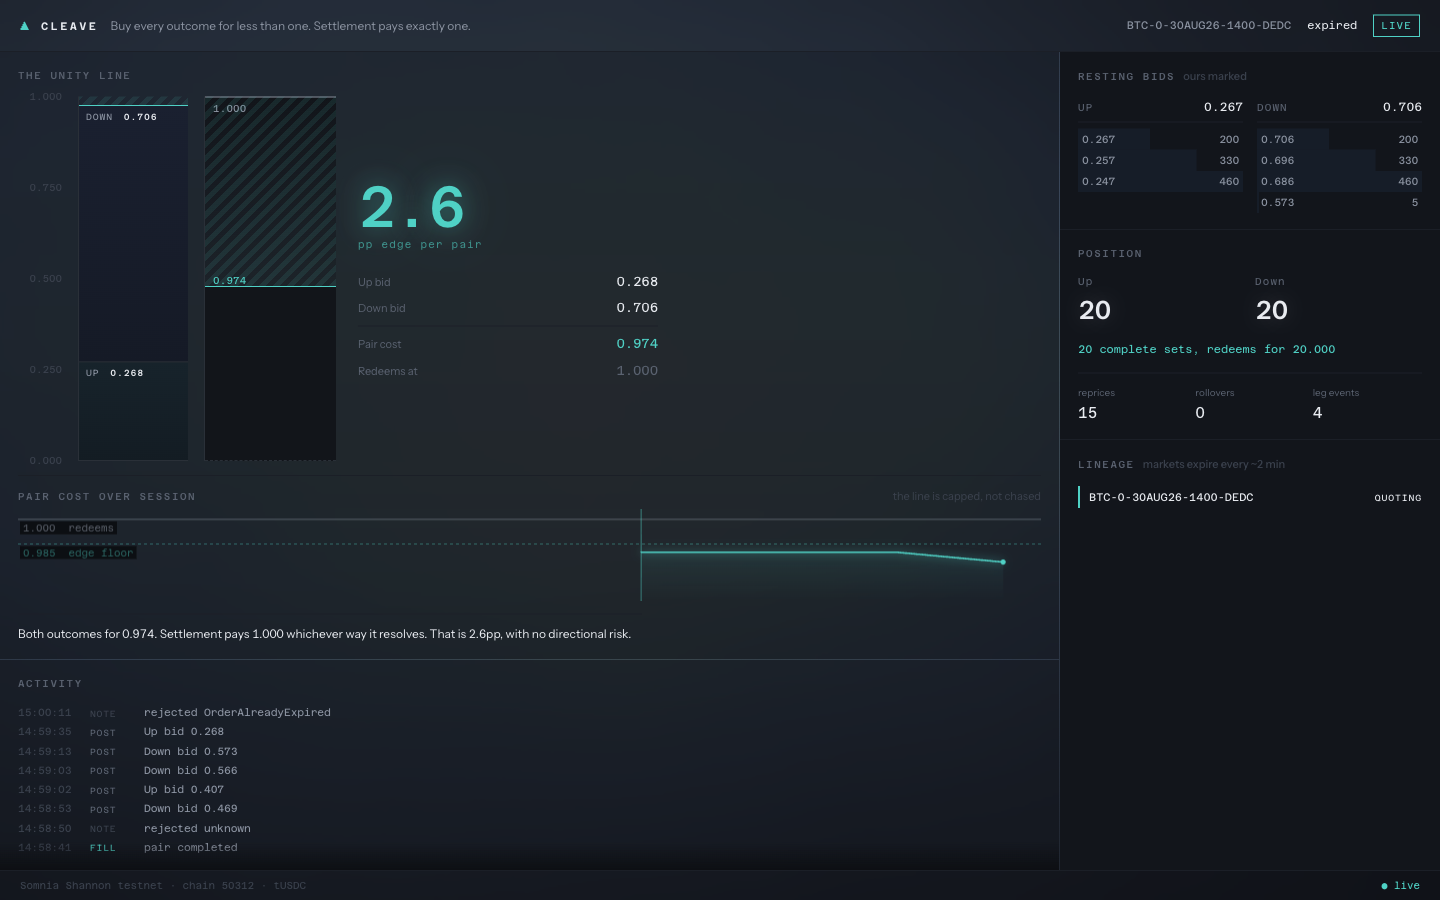
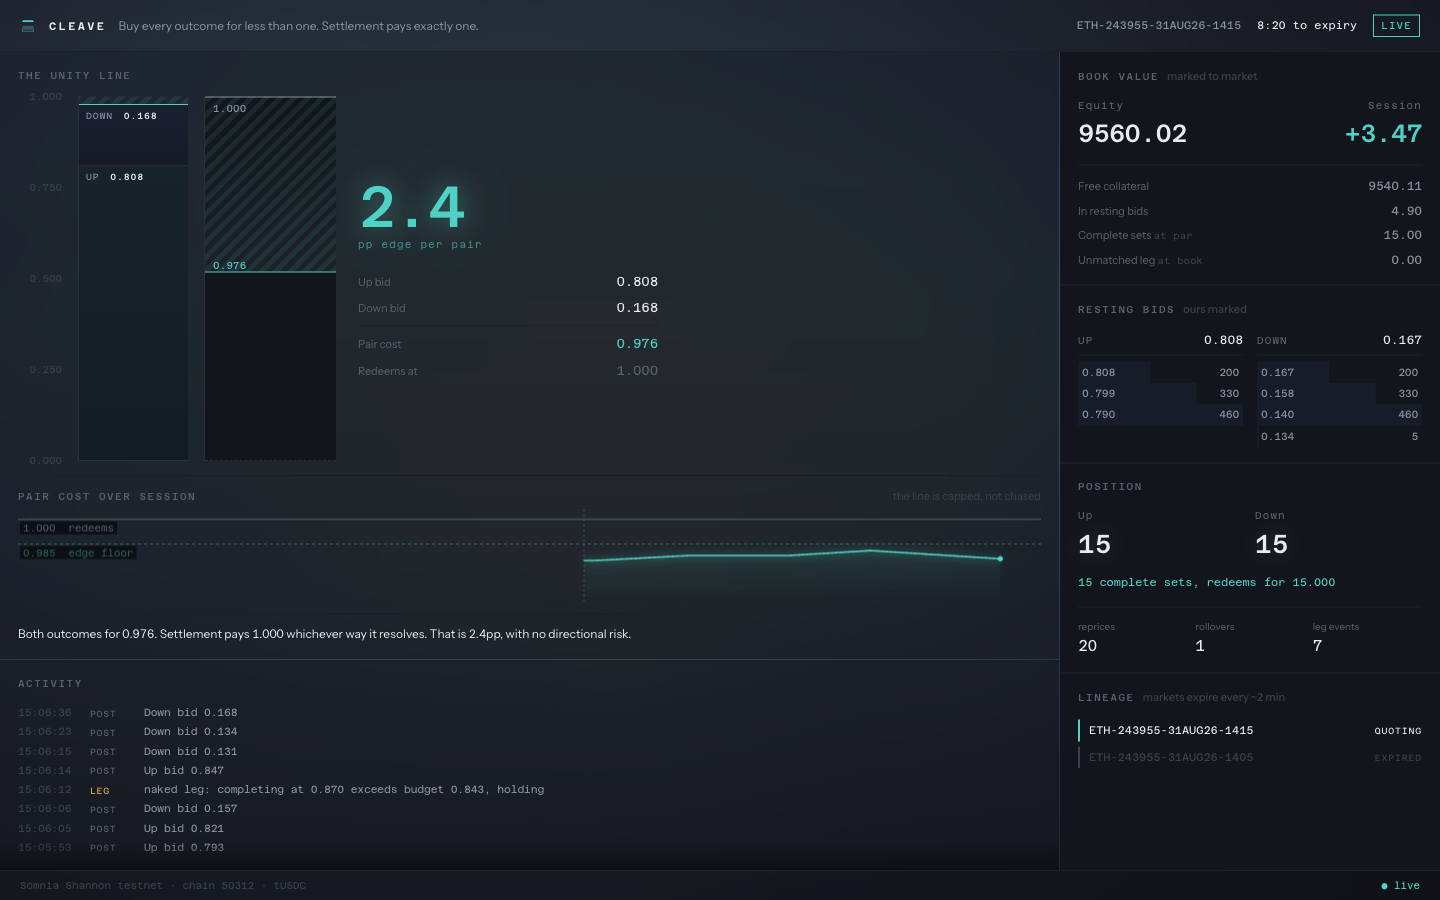
Book value panel; fix a null that blanked the interface and a lying vernier
Adds the number a judge asks for first. Equity marked to market with the
derivation shown: free collateral, collateral locked in resting bids, complete
sets at par, unmatched leg at book. Sets are marked at par because they redeem
at exactly 1.000 regardless of outcome, so marking them at the book would imply
risk that does not exist. Wallet balance alone is wrong because resting bids
move collateral out of the wallet.

Fixes two real bugs. A single missing element threw inside renderUnity and
killed every subsequent panel, leaving a half-drawn page that still looked
plausible - rendering is now fault-isolated per panel. And the vernier clamped
values outside its 0.950 window, printing a real number on top of a gradation
reading something else; it now declares itself off scale instead. Filming caught
that case at a pair cost of 0.684 nineteen seconds from expiry.

diff --git a/web/style.css b/web/style.css
@@ -97,7 +97,7 @@ body {
 }
 .stale-dot{width:6px;height:6px;border-radius:50%;background:var(--naked);flex:none;animation:pulseDot 1.6s ease-in-out infinite}
 @keyframes pulseDot{0%,100%{opacity:1}50%{opacity:.25}}
-body.stale .edge-num,body.stale .pos-v,body.stale .readout dd,body.stale .levels li,
+body.stale .edge-num,body.stale .pos-v,body.stale .pnl-v,body.stale .readout dd,body.stale .levels li,
 body.stale .trace,body.stale .seg-label b,body.stale .book-head .num{
   opacity:.42;filter:saturate(.35);
 }
@@ -122,7 +122,7 @@ main {
   grid-template-areas: "unity rail" "events rail";
   height: calc(100vh - 52px - 30px);
 }
-.rail { grid-area: rail; display: grid; grid-template-rows: auto auto 1fr; gap: 1px;
+.rail { grid-area: rail; display: grid; grid-template-rows: auto auto auto 1fr; gap: 1px;
         background: var(--hair); padding: 0; }
 .rail > section { padding: 16px 18px; }
 section { background: color-mix(in srgb, var(--panel) 62%, transparent); backdrop-filter: blur(7px) saturate(115%); padding: 16px 18px; min-width: 0; overflow: hidden; }
@@ -206,6 +206,18 @@ section { background: color-mix(in srgb, var(--panel) 62%, transparent); backdro
   border-bottom: 0; transition: height .5s cubic-bezier(.2,.7,.2,1);
 }
 
+/* A fixed scale that silently clamps is a lying instrument. When the pair
+   falls outside the window the vernier says so, rather than pinning a value
+   on top of a gradation that reads something else. */
+.v-off {
+  position: absolute; left: 0; right: 0; bottom: 8px; text-align: center;
+  font-family: var(--mono); font-size: 10px; letter-spacing: .12em;
+  color: var(--naked); text-transform: uppercase; line-height: 1.7;
+}
+.v-off span { letter-spacing: -.02em; font-size: 12px; text-transform: none; }
+.v-track.off .v-pair span { display: none; }
+.v-track.off .v-floor span { opacity: .3; }
+
 .v-read { align-self: center; display: flex; flex-direction: column; gap: 2px; min-width: 0; width: 100%; }
 .edge-num {
   font-family: var(--mono); font-size: clamp(34px, 4.4vw, 58px); font-weight: 500;
@@ -261,6 +273,25 @@ section { background: color-mix(in srgb, var(--panel) 62%, transparent); backdro
 }
 .levels li.mine::before { background: var(--under); opacity: .16; }
 .levels .empty { color: var(--rolled); justify-content: flex-start; }
+
+/* ── Book value ─────────────────────────────────────────────────────
+   The question a judge asks first. Complete sets are marked at par because
+   they redeem at exactly 1.000 whatever happens; only the unmatched leg is
+   marked at the book, because only it carries price risk.
+   ----------------------------------------------------------------- */
+.pnl-top { display: grid; grid-template-columns: 1fr auto; gap: 14px; align-items: end; }
+.pnl-top > div { display: flex; flex-direction: column; gap: 2px; }
+.pnl-net { text-align: right; }
+.pnl-k { font-family: var(--mono); font-size: 10px; letter-spacing: .12em; color: var(--ink-mute); }
+.pnl-v { font-size: 25px; font-weight: 500; letter-spacing: -.03em; }
+#pNet[data-sign="up"]   { color: var(--under); }
+#pNet[data-sign="down"] { color: var(--over); }
+#pNet[data-sign="flat"] { color: var(--ink-mute); }
+.pnl-rows { display: grid; gap: 7px; margin: 14px 0 0; padding-top: 12px; border-top: 1px solid var(--hair); }
+.pnl-rows div { display: flex; justify-content: space-between; align-items: baseline; gap: 10px; }
+.pnl-rows dt { font-size: 11px; color: var(--ink-mute); }
+.pnl-rows dt b { font-weight: 400; color: var(--rolled); font-family: var(--mono); font-size: 9.5px; letter-spacing: .04em; }
+.pnl-rows dd { margin: 0; font-size: 12px; color: var(--ink-dim); }
 
 /* ── Position ───────────────────────────────────────────────────────── */
 .pos-grid { display: grid; grid-template-columns: 1fr 1fr; gap: 10px; }
@@ -382,7 +413,19 @@ section { background: color-mix(in srgb, var(--panel) 62%, transparent); backdro
   .v-rule span, .v-floor span { left: 4px; font-size: 9px; }
   .seg-label { font-size: 8px; letter-spacing: .06em; }
   .seg-label b { display: block; margin: 1px 0 0; }
-  .v-read { align-self: center; }
+  /* A fixed scale that silently clamps is a lying instrument. When the pair
+   falls outside the window the vernier says so, rather than pinning a value
+   on top of a gradation that reads something else. */
+.v-off {
+  position: absolute; left: 0; right: 0; bottom: 8px; text-align: center;
+  font-family: var(--mono); font-size: 10px; letter-spacing: .12em;
+  color: var(--naked); text-transform: uppercase; line-height: 1.7;
+}
+.v-off span { letter-spacing: -.02em; font-size: 12px; text-transform: none; }
+.v-track.off .v-pair span { display: none; }
+.v-track.off .v-floor span { opacity: .3; }
+
+.v-read { align-self: center; }
   .edge-num { font-size: 42px; }
   .readout { margin-top: 12px; }
   .trace { height: 76px; }

diff --git a/web/app.js b/web/app.js
@@ -74,13 +74,24 @@ function renderUnity(s) {
   $("pUp").textContent = f3(up);
   $("pDown").textContent = f3(down);
 
-  // Vernier: same quantity, expanded. Clamped so a pair below the window
-  // floor pins to the bottom rather than escaping the track.
-  const frac = pair === undefined ? 0 : Math.min(1, Math.max(0, (1 - pair) / (1 - V_FLOOR)));
+  // Vernier: same quantity, expanded twentyfold over 0.950 to 1.000.
+  // Near expiry the pair can fall far outside that window. A fixed scale that
+  // silently clamps would print the real value on top of a gradation reading
+  // something else, so instead it goes OFF SCALE, which is what an instrument
+  // with a fixed range actually does.
+  const raw = pair === undefined ? 0 : (1 - pair) / (1 - V_FLOOR);
+  const frac = Math.min(1, Math.max(0, raw));
+  const offScale = pair !== undefined && raw > 1;
   $("vPair").style.top = `${(frac * 100).toFixed(2)}%`;
   $("vGap").style.height = `${(frac * 100).toFixed(2)}%`;
   $("vPaid").style.top = `${(frac * 100).toFixed(2)}%`;
   $("vPairVal").textContent = f3(pair);
+  document.querySelector(".v-track")?.classList.toggle("off", offScale);
+  const off = $("vOff");
+  if (off) {
+    off.hidden = !offScale;
+    if (offScale) $("vOffVal").textContent = `pair ${f3(pair)}`;
+  }
 
   $("rUp").textContent = f3(up);
   $("rDown").textContent = f3(down);
@@ -139,6 +150,23 @@ function renderBook(elId, topId, levels, mine) {
     const q = document.createElement("span"); q.textContent = size;
     li.append(p, q); ol.append(li);
   }
+}
+
+const f2 = (n) => (n === undefined || n === null ? "—" : n.toFixed(2));
+
+function renderPnl(s) {
+  const p = s.pnl;
+  if (!p) return;
+  $("pEquity").textContent = f2(p.equity);
+  $("pWallet").textContent = f2(p.wallet);
+  $("pLocked").textContent = f2(p.locked);
+  $("pPaired").textContent = f2(p.paired);
+  $("pNaked").textContent = f2(p.naked);
+  const n = p.net ?? 0;
+  const el = $("pNet");
+  // A tenth of a tUSDC is noise on a book this size; do not colour it.
+  el.dataset.sign = Math.abs(n) < 0.1 ? "flat" : n > 0 ? "up" : "down";
+  el.textContent = `${n >= 0 ? "+" : ""}${f2(n)}`;
 }
 
 function renderPosition(s) {
@@ -205,17 +233,32 @@ function tickCountdown() {
     : `${m}:${String(sec).padStart(2, "0")} to expiry`;
 }
 
+// Each panel renders inside its own boundary. A null element or a malformed
+// frame should blank ONE panel, not the whole interface: a single missing node
+// previously threw inside renderUnity and killed every subsequent call, leaving
+// a half-drawn page that still looked plausible.
+function guard(name, fn) {
+  try { fn(); }
+  catch (err) {
+    if (!guard.seen) guard.seen = new Set();
+    if (!guard.seen.has(name)) { guard.seen.add(name); console.error(`[cleave] ${name} failed:`, err); }
+  }
+}
+
 function render(s) {
   latest = s;
-  driveEffects(s);
-  renderChrome(s);
-  renderUnity(s);
-  renderBook("bUp", "bUpTop", s.book.upDepth, s.quote.up);
-  renderBook("bDown", "bDownTop", s.book.downDepth, s.quote.down);
-  renderPosition(s);
-  renderLineage(s);
-  renderEvents(s);
-  tickCountdown();
+  guard("effects", () => driveEffects(s));
+  guard("chrome", () => renderChrome(s));
+  guard("unity", () => renderUnity(s));
+  guard("books", () => {
+    renderBook("bUp", "bUpTop", s.book.upDepth, s.quote.up);
+    renderBook("bDown", "bDownTop", s.book.downDepth, s.quote.down);
+  });
+  guard("pnl", () => renderPnl(s));
+  guard("position", () => renderPosition(s));
+  guard("lineage", () => renderLineage(s));
+  guard("events", () => renderEvents(s));
+  guard("countdown", () => tickCountdown());
 }
 
 document.body.classList.add("boot");

diff --git a/src/engine.ts b/src/engine.ts
@@ -6,7 +6,7 @@
  * onto the one that trades.
  */
 import { SomniaMarkets, isBinaryMarket, erc6909Abi, type UnifiedOrder } from "@somnia-chain/markets-sdk";
-import { createPublicClient, http, type PublicClient } from "viem";
+import { createPublicClient, http, erc20Abi, type PublicClient } from "viem";
 import { privateKeyToAccount } from "viem/accounts";
 import { loadConfig } from "./config.js";
 
@@ -25,6 +25,17 @@ export interface EngineState {
   book: { upBid?: number; upAsk?: number; downBid?: number; downAsk?: number; upDepth: Level[]; downDepth: Level[] };
   quote: { up?: number; down?: number; pair?: number; edge?: number; capped: boolean };
   position: { up: number; down: number };
+  /** Mark-to-market equity, in tUSDC. Resting bids move collateral out of the
+   *  wallet, so wallet balance alone badly understates it. */
+  pnl: {
+    startEquity?: number;   // equity at the first tick of this session
+    wallet: number;         // free collateral
+    locked: number;         // collateral committed to resting bids
+    paired: number;         // complete sets, which redeem at exactly 1.000
+    naked: number;          // unmatched legs, marked at the live book
+    equity: number;
+    net: number;            // equity - startEquity
+  };
   stats: { reprices: number; rolls: number; legEvents: number; ticks: number };
   lineage: { symbol: string; expiry: number; state: "active" | "rolled" }[];
   events: EngineEvent[];
@@ -40,6 +51,7 @@ export function emptyState(): EngineState {
   return {
     live: false, book: { upDepth: [], downDepth: [] }, quote: { capped: false },
     position: { up: 0, down: 0 },
+    pnl: { wallet: 0, locked: 0, paired: 0, naked: 0, equity: 0, net: 0 },
     stats: { reprices: 0, rolls: 0, legEvents: 0, ticks: 0 },
     lineage: [], events: [], updatedAt: Date.now(),
   };
@@ -199,6 +211,34 @@ export async function runMaker(opts: RunOpts, emit: (s: EngineState) => void): P
 
     const pos = await held();
     st.position = pos;
+
+    // ── Mark to market ────────────────────────────────────────────────────
+    // Complete sets are worth exactly 1.000 each whatever happens, so they are
+    // marked at par, not at the book. Only the unmatched remainder carries
+    // price risk, and that is marked at the live bid.
+    const collateral = (cfg.addresses as { collateral: `0x${string}` }).collateral;
+    let wallet = 0;
+    try {
+      wallet = Number(await pub.readContract({
+        address: collateral, abi: erc20Abi, functionName: "balanceOf", args: [account.address],
+      }) as bigint) / 1e6;
+    } catch { wallet = st.pnl.wallet; }
+
+    let locked = 0;
+    for (const [o, px] of [[upOrder, upBid], [downOrder, downBid]] as const) {
+      if (o?.price !== undefined) locked += o.price * (Number(o.amount ?? opts.size) - Number(o.filled ?? 0));
+    }
+
+    const paired = Math.min(pos.up, pos.down);              // redeems at 1.000
+    const nakedQty = Math.abs(pos.up - pos.down);
+    const nakedMark = pos.up > pos.down ? upBid : downBid;  // the price we could exit at
+    const naked = nakedQty * nakedMark;
+    const equity = wallet + locked + paired + naked;
+    if (st.pnl.startEquity === undefined) st.pnl.startEquity = equity;
+    st.pnl = {
+      startEquity: st.pnl.startEquity, wallet, locked, paired, naked, equity,
+      net: equity - st.pnl.startEquity,
+    };
 
     if (opts.live && pos.up !== pos.down) {
       st.stats.legEvents++;

diff --git a/web/index.html b/web/index.html
@@ -67,6 +67,7 @@
           <div class="v-rule v-unity"><span>1.000</span></div>
           <div class="v-gap" id="vGap"></div>
           <div class="v-rule v-pair" id="vPair"><span id="vPairVal"></span></div>
+          <div class="v-off" id="vOff" hidden>off scale<br><span id="vOffVal"></span></div>
           <div class="v-floor"><span>0.950</span></div>
         </div>
         <div class="v-read">
@@ -94,6 +95,27 @@
   </section>
 
   <div class="rail">
+  <!-- ── Book value ─────────────────────────────────────────────────── -->
+  <section class="pnl" aria-labelledby="pnl-h">
+    <h2 id="pnl-h" class="eyebrow">Book value <span class="hint">marked to market</span></h2>
+    <div class="pnl-top">
+      <div>
+        <span class="pnl-k">Equity</span>
+        <span class="num pnl-v" id="pEquity">—</span>
+      </div>
+      <div class="pnl-net">
+        <span class="pnl-k">Session</span>
+        <span class="num pnl-v" id="pNet" data-sign="flat">—</span>
+      </div>
+    </div>
+    <dl class="pnl-rows">
+      <div><dt>Free collateral</dt><dd class="num" id="pWallet">—</dd></div>
+      <div><dt>In resting bids</dt><dd class="num" id="pLocked">—</dd></div>
+      <div><dt>Complete sets <b>at par</b></dt><dd class="num" id="pPaired">—</dd></div>
+      <div><dt>Unmatched leg <b>at book</b></dt><dd class="num" id="pNaked">—</dd></div>
+    </dl>
+  </section>
+
   <!-- ── Books ──────────────────────────────────────────────────────── -->
   <section class="books" aria-labelledby="books-h">
     <h2 id="books-h" class="eyebrow">Resting bids <span class="hint">ours marked</span></h2>

diff --git a/docs/preflight-baseline.md b/docs/preflight-baseline.md
@@ -647,3 +647,49 @@ no market   Nothing to quote / The engine stopped: indexer RegistryMarkets
 stale       Disconnected from the engine. The figures below were last updated
             at 18:38:54 and are no longer live.
 ```
+
+---
+
+# Book value, and the bug that hid it
+
+## The number a judge asks for first
+
+Until now nothing on screen answered "did it make money". It does now, with the
+derivation shown so it can be checked rather than believed:
+
+```
+Equity          9560.02        Session  +3.47
+Free collateral                        9540.11
+In resting bids                           4.90
+Complete sets  at par                    15.00
+Unmatched leg  at book                    0.00
+```
+
+**Complete sets are marked at par, the unmatched leg at the book.** That is not
+a convenience: a complete set redeems at exactly 1.000 whatever happens, so
+marking it at the book would understate it and imply risk that does not exist.
+Only the unmatched remainder carries price risk, and only it is marked.
+
+Wallet balance alone is badly wrong here, because resting bids move collateral
+out of the wallet. Equity has to include what is committed to open orders or a
+working maker looks like it is losing money.
+
+## Two bugs found on the way
+
+**A single null reference blanked the whole interface.** `renderUnity` threw on
+a missing element and killed every subsequent panel, leaving a half-drawn page
+that still looked plausible: header populated, market and countdown live, but
+"Acquiring market" and empty panels below. Rendering is now fault-isolated per
+panel, so one broken panel degrades one panel. A half-drawn page that looks
+plausible is worse than a visibly broken one.
+
+**The vernier lied outside its window.** Filming caught a market 19 seconds from
+expiry with a pair cost of 0.684, far below the 0.950 floor. The old code
+clamped it, printing "0.684" at the exact position the scale gradation reads
+0.950. It now goes **off scale** and says so, which is what an instrument with a
+fixed range does. Auto-rescaling was the wrong fix: a scale that moves cannot be
+read.
+
+Measured frequency: across 108 samples of ordinary operation the pair stayed
+between 0.972 and 0.990, so the window is correct. It is only near expiry that
+it blows out, which is exactly when a camera is most likely to be pointed at it.
